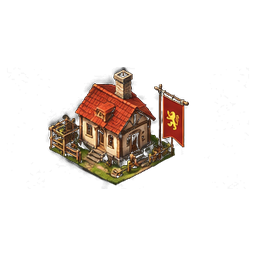
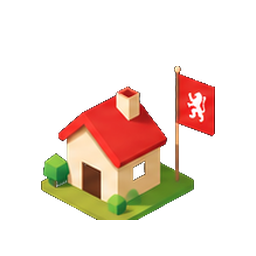
feat: standardize latest building artwork at 48px

Changed region(s): [[0.1562, 0.25, 0.8438, 0.875]]

diff --git a/src/config/buildingAssets.test.ts b/src/config/buildingAssets.test.ts
@@ -4,14 +4,14 @@ import sharp from 'sharp';
 import {buildingArtwork,BUILDING_COMPANIES} from './gameAssets';
 
 const stages=[
-  {name:'settlement_level_1',settlement:1,factory:undefined,width:26.625766871165645},
-  {name:'settlement_level_2',settlement:2,factory:undefined,width:28.166666666666668},
-  {name:'factory_level_1',settlement:2,factory:1,width:21.18918918918919},
-  {name:'factory_level_2',settlement:2,factory:2,width:24.67027027027027},
-  {name:'factory_level_3',settlement:2,factory:3,width:25.275675675675675},
+  {name:'settlement_level_1',settlement:1,factory:undefined},
+  {name:'settlement_level_2',settlement:2,factory:undefined},
+  {name:'factory_level_1',settlement:2,factory:1},
+  {name:'factory_level_2',settlement:2,factory:2},
+  {name:'factory_level_3',settlement:2,factory:3},
 ] as const;
 describe('company building artwork',()=>{
-  it.each(BUILDING_COMPANIES)('ships five transparent PNGs with correct URLs, bounds and 2x frame sizes for %s',async(company)=>{
+  it.each(BUILDING_COMPANIES)('ships five transparent PNGs with correct URLs, normalized content and uniform 48px frames for %s',async(company)=>{
     const companyId=BUILDING_COMPANIES.indexOf(company);
     for(const stage of stages){
       const asset=buildingArtwork(stage.settlement,stage.factory,companyId);
@@ -20,8 +20,14 @@ describe('company building artwork',()=>{
       const png=await readFile(new URL(`../../public/assets/game/buildings/${file}`,import.meta.url));
       const metadata=await sharp(png).metadata();
       expect(metadata).toMatchObject({format:'png',width:256,height:256,hasAlpha:true});
-      expect(asset.frameHeight).toBe(56);
-      expect(asset.frameWidth).toBeCloseTo(stage.width*2,10);
+      const {data,info}=await sharp(png).ensureAlpha().raw().toBuffer({resolveWithObject:true});
+      let left=256,top=256,right=0,bottom=0;
+      for(let y=0;y<info.height;y++)for(let x=0;x<info.width;x++)if(data[(y*info.width+x)*4+3]>8){left=Math.min(left,x);top=Math.min(top,y);right=Math.max(right,x);bottom=Math.max(bottom,y)}
+      // Actual opaque subject bounds, not merely a CSS frame size.
+      expect({left,top,right,bottom}).toEqual({left:41,top:66,right:214,bottom:219});
+      expect(asset.frameHeight).toBe(48);
+      expect(asset.frameWidth).toBe(48);
+      expect({x:asset.x,y:asset.y,width:asset.width,height:asset.height}).toEqual({x:40,y:65,width:176,height:156});
       expect(asset.x).toBeGreaterThanOrEqual(0);expect(asset.y).toBeGreaterThanOrEqual(0);
       expect(asset.x+asset.width).toBeLessThanOrEqual(256);expect(asset.y+asset.height).toBeLessThanOrEqual(256);
     }

diff --git a/src/config/gameAssets.ts b/src/config/gameAssets.ts
@@ -15,15 +15,13 @@ export const commodityImages:Record<Commodity,string>={
   fabric:asset('goods_fabric'),clothing:asset('goods_clothing'),
 };
 
-// Preserve the previous per-stage frame proportions and double both dimensions.
-export const BUILDING_ICON_SIZE_MULTIPLIER=2;
-const legacyFrames={settlement_level_1:[155,163],settlement_level_2:[169,168],factory_level_1:[140,185],factory_level_2:[163,185],factory_level_3:[167,185]} as const;
-export type BuildingStage=keyof typeof legacyFrames;
+// Every stage shares one frame; alpha-content bounds normalize source padding.
+export const BUILDING_ICON_SIZE=48;
+export type BuildingStage='settlement_level_1'|'settlement_level_2'|'factory_level_1'|'factory_level_2'|'factory_level_3';
 export const BUILDING_COMPANIES=['iron_works','timber_guild','golden_trade','ocean_empire'] as const;
 export function buildingArtwork(settlementLevel:1|2,factoryLevel?:1|2|3,companyId=0){
   const stage:BuildingStage=factoryLevel?`factory_level_${factoryLevel}`:`settlement_level_${settlementLevel}`;
   const company=BUILDING_COMPANIES[companyId]??BUILDING_COMPANIES[0];
   const name=`${company}_${stage}` as keyof typeof buildingBounds;
-  const [width,height]=legacyFrames[stage],frameHeight=28*BUILDING_ICON_SIZE_MULTIPLIER;
-  return{...buildingBounds[name],src:`${import.meta.env.BASE_URL}assets/game/buildings/${name}.png`,frameWidth:frameHeight*width/height,frameHeight};
+  return{...buildingBounds[name],src:`${import.meta.env.BASE_URL}assets/game/buildings/${name}.png`,frameWidth:BUILDING_ICON_SIZE,frameHeight:BUILDING_ICON_SIZE};
 }

diff --git a/scripts/BUILDINGS_48_REPORT.md b/scripts/BUILDINGS_48_REPORT.md
@@ -1,0 +1,40 @@
+# Uniform 48px building artwork
+
+## Implementation
+
+- Replaced the 20 company-prefixed PNGs in `public/assets/game/buildings/` with the latest files from `asset/hous/`. Copies are byte-identical; originals were not edited, moved or deleted.
+- Removed legacy per-stage sizes and the 2x multiplier. `BUILDING_ICON_SIZE=48` is the sole frame size for every company and stage.
+- Inspected alpha content for all 20 PNGs. At alpha >8 the visible subject occupies x=41…214, y=66…219 in every source. Viewport bounds include 1px padding: x=40, y=65, width=176, height=156. This normalizes actual source content, rather than relying only on CSS or full PNG dimensions.
+- All images use the existing proportional SVG contain behavior and bottom-center anchoring. The frame is exactly 48×48 screen pixels at default zoom; the nonsquare subject retains its proportions inside that frame. Subject footprints are equivalent across all stages and companies.
+- The existing vertex coordinates, upgrade actions, company ownership, company colors, number-label foreground layer, free-vertex hit targets and zoom/pan remain unchanged. No extraction, manufacturing capacity, pricing, auction, networking or persistence rules changed.
+
+## Validation
+
+- `npm test`: **256 passed / 9 skipped**, 19 test files passed / 2 skipped. PostgreSQL/Neon tests were not connected.
+- Focused asset regression after strengthening alpha-bound checks: **4 passed**, covering all 20 files.
+- `npm run typecheck`: PASS, frontend/backend.
+- `npm run build`: PASS.
+- `npm run server:build`: PASS.
+- Original/public/dist bytes match for all 20 PNGs. All 20 Vite image URLs respond HTTP 200, `image/png`, and original bytes.
+- Browser gallery renders the production BuildingIcon component for all 20 combinations: all measured 48×48 screen pixels. Four colors and all five stages visually verified. Measurement data saved locally.
+- Actual map at fitted default zoom: all eight representative buildings measure exactly 48×48, including four companies and all five stages.
+- Zoom in/out controls, pan and reset checked. Upgrading an owned settlement changes its PNG to level 2, remains 48×48 and retains vertex `(-45.89934640057525, -26.5)` and company color.
+- Selecting a nearby free vertex still opens its normal construction popover. Number labels remain above building artwork.
+- QA uses only an in-memory backend. No Neon access, schema changes, force push or manual deployment.
+
+## Local screenshots
+
+- `.render-verification/buildings-48-map.png`: default map, four companies and five stages.
+- `.render-verification/buildings-48-zoom.png`: detailed zoom.
+- `.render-verification/buildings-48-gallery.png`: all 20 icons rendered with 48px guides.
+- `.render-verification/buildings-48-measurements.json`: 20 browser frame measurements.
+
+## Changed files
+
+- 20 company-prefixed PNGs in `public/assets/game/buildings/`.
+- `src/config/gameAssets.ts`.
+- `src/config/buildingAssetBounds.json`.
+- `src/config/buildingAssets.test.ts`.
+- This report.
+
+Existing local source-folder changes are excluded from this commit.
